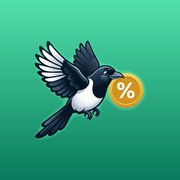
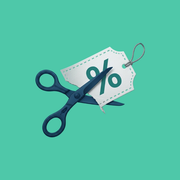
Add files via upload

diff --git a/index.html b/index.html
@@ -3,14 +3,14 @@
 <head>
 <meta charset="utf-8">
 <meta name="viewport" content="width=device-width, initial-scale=1, viewport-fit=cover">
-<title>Savely</title>
+<title>Klippet</title>
 <link rel="manifest" href="manifest.webmanifest">
 <meta name="theme-color" content="#1e293b">
 <link rel="icon" type="image/png" href="icon-192.png">
 <link rel="apple-touch-icon" href="icon-180.png">
 <meta name="mobile-web-app-capable" content="yes">
 <meta name="apple-mobile-web-app-capable" content="yes">
-<meta name="apple-mobile-web-app-title" content="Savely">
+<meta name="apple-mobile-web-app-title" content="Klippet">
 <link rel="stylesheet" href="https://fonts.googleapis.com/css2?family=Plus+Jakarta+Sans:wght@400;600;800&display=swap">
 <style>
 :root{--bg:#f6f8fb;--card:#fff;--ink:#0f172a;--mute:#64748b;--head:#1e293b;--green:#10b981;--gink:#059669;--wbg:#fef3c7;--wink:#92400e;--line:#e2e8f0;--chip:#fff;--nav:#fff;color-scheme:light;box-sizing:border-box;padding-top:env(safe-area-inset-top,0px);padding-bottom:env(safe-area-inset-bottom,0px)}
@@ -92,7 +92,7 @@ button:focus-visible,input:focus-visible{outline:3px solid #34d399;outline-offse
 <header>
   <div class="brand">
     <img class="mark" src="icon-192.png" alt="" width="46" height="46">
-    <div><h1>Savely</h1><p>Smart sparande, varje vecka</p></div>
+    <div><h1>Klippet</h1><p>Smart sparande, varje vecka</p></div>
     <div class="sp"></div>
     <button class="hb" data-tab="list" aria-label="Öppna sparlistan"><svg width="22" height="22" viewBox="0 0 24 24" fill="none" stroke="currentColor" stroke-width="2"><path d="M12 21s-7-4.6-9.3-9A5.3 5.3 0 0 1 12 6.6 5.3 5.3 0 0 1 21.3 12C19 16.4 12 21 12 21z"/></svg><i id="cnt">0</i></button>
   </div>
@@ -195,7 +195,7 @@ function render(){
 function toast(m){const t=$('#toast');t.textContent=m;t.classList.add('show');clearTimeout(toast.h);toast.h=setTimeout(()=>t.classList.remove('show'),2200)}
 
 function openAuth(note){
-  $('#modal').innerHTML=`<div class="modal" data-close><div class="sheet" role="dialog" aria-modal="true" aria-labelledby="at"><h2 id="at">Logga in på Savely</h2><p>${esc(note||'Skapa ett konto eller logga in.')}</p><input id="em" type="email" autocomplete="email" placeholder="E-post" aria-label="E-post"><input id="pw" type="password" autocomplete="current-password" placeholder="Lösenord (minst 6 tecken)" aria-label="Lösenord"><div class="msg" id="msg" role="alert"></div><button class="btn" data-auth="in">Logga in</button><button class="btn ghost" data-auth="up">Skapa konto</button></div></div>`;
+  $('#modal').innerHTML=`<div class="modal" data-close><div class="sheet" role="dialog" aria-modal="true" aria-labelledby="at"><h2 id="at">Logga in på Klippet</h2><p>${esc(note||'Skapa ett konto eller logga in.')}</p><input id="em" type="email" autocomplete="email" placeholder="E-post" aria-label="E-post"><input id="pw" type="password" autocomplete="current-password" placeholder="Lösenord (minst 6 tecken)" aria-label="Lösenord"><div class="msg" id="msg" role="alert"></div><button class="btn" data-auth="in">Logga in</button><button class="btn ghost" data-auth="up">Skapa konto</button></div></div>`;
   setTimeout(()=>{const e=$('#em');if(e)e.focus()},50);
 }
 function closeAuth(){$('#modal').innerHTML=''}

diff --git a/admin.html b/admin.html
@@ -4,7 +4,7 @@
 <meta charset="utf-8">
 <meta name="viewport" content="width=device-width, initial-scale=1, viewport-fit=cover">
 <meta name="robots" content="noindex">
-<title>Savely admin</title>
+<title>Klippet admin</title>
 <link rel="stylesheet" href="https://fonts.googleapis.com/css2?family=Plus+Jakarta+Sans:wght@400;600;800&display=swap">
 <style>
 :root{--bg:#f6f8fb;--card:#fff;--ink:#0f172a;--mute:#64748b;--head:#1e293b;--green:#10b981;--gink:#059669;--line:#e2e8f0;--red:#dc2626;color-scheme:light;box-sizing:border-box;padding-top:env(safe-area-inset-top,0px);padding-bottom:env(safe-area-inset-bottom,0px)}
@@ -36,7 +36,7 @@ button:focus-visible,input:focus-visible,select:focus-visible{outline:3px solid 
 </style>
 </head>
 <body>
-<header><img class="mark" src="icon-192.png" alt="" width="42" height="42"><h1>Savely admin<small id="who"></small></h1><div class="sp"></div><button class="btn ghost sm" id="out" hidden>Log out</button></header>
+<header><img class="mark" src="icon-192.png" alt="" width="42" height="42"><h1>Klippet admin<small id="who"></small></h1><div class="sp"></div><button class="btn ghost sm" id="out" hidden>Log out</button></header>
 <div id="app"></div>
 <div class="toast" id="toast" role="status"></div>
 <script src="https://cdn.jsdelivr.net/npm/@supabase/supabase-js@2.45.4/dist/umd/supabase.js"></script>

diff --git a/sw.js b/sw.js
@@ -1,4 +1,4 @@
-const CACHE = 'savely-v2';
+const CACHE = 'klippet-v3';
 const SHELL = ['./', 'index.html', 'manifest.webmanifest', 'icon-192.png', 'icon-512.png'];
 
 self.addEventListener('install', e => {
